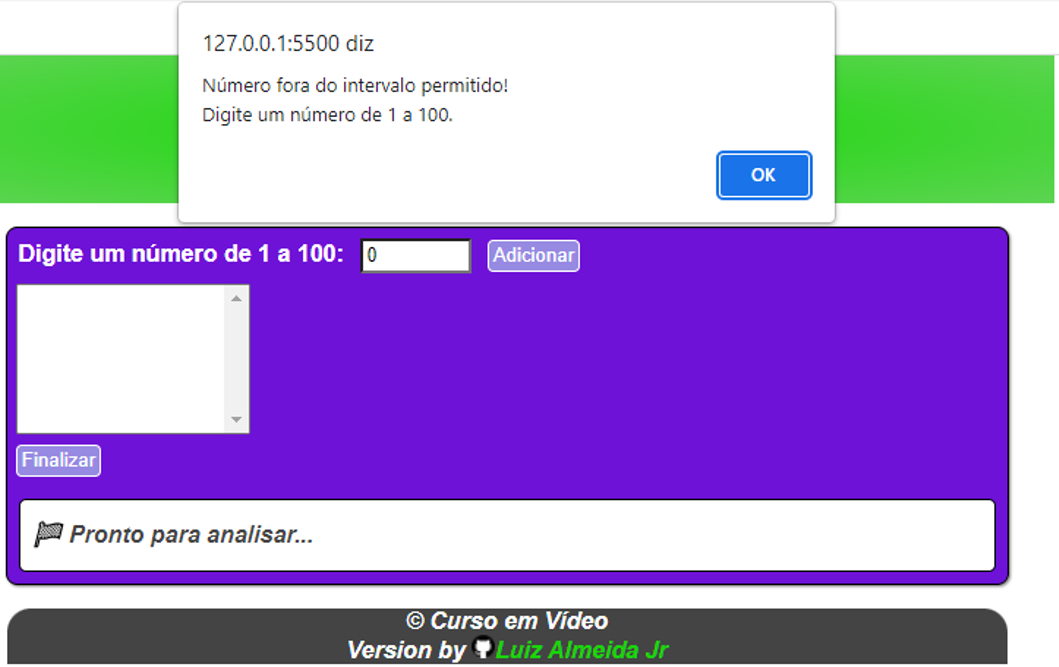
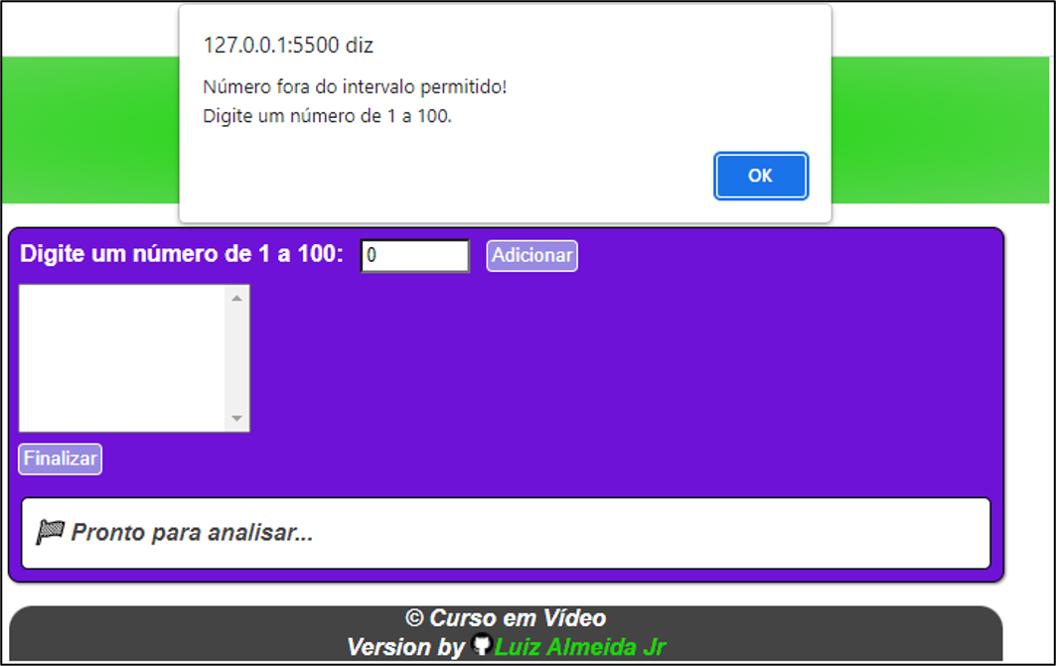
imagesBorderAddition
Adição de bordas às imagens.

diff --git a/README.md b/README.md
@@ -3,7 +3,7 @@
 Programa responsável por analisar os números adicionados e retornar o maior e o menor entre eles, a soma de todos os números e sua média.
 <br>
 
-Programa desenvolvido durante desafio do curso de JavaScript do Curso em Vídeo.
+Programa desenvolvido durante desafio do [curso de JavaScript do Curso em Vídeo.](https://www.youtube.com/watch?v=vEOEZ03ZyiE&list=PLHz_AreHm4dlsK3Nr9GVvXCbpQyHQl1o1&index=31)
 
 ##  Como utilizar?
 Digite um número de 1 a 100 e clique em **Adicionar**.
